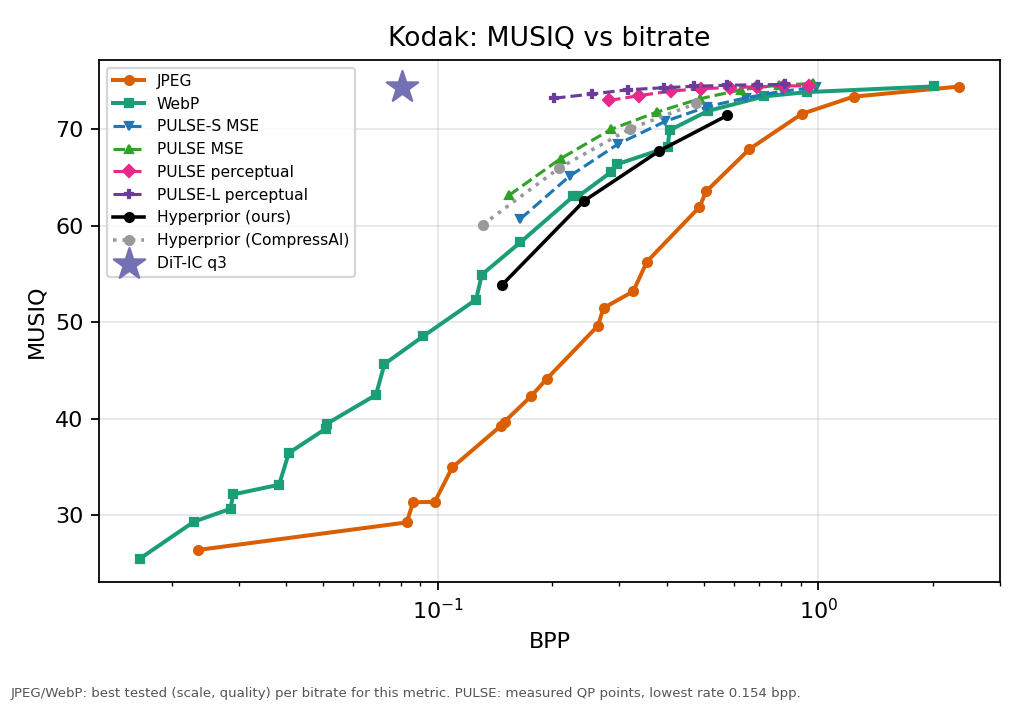
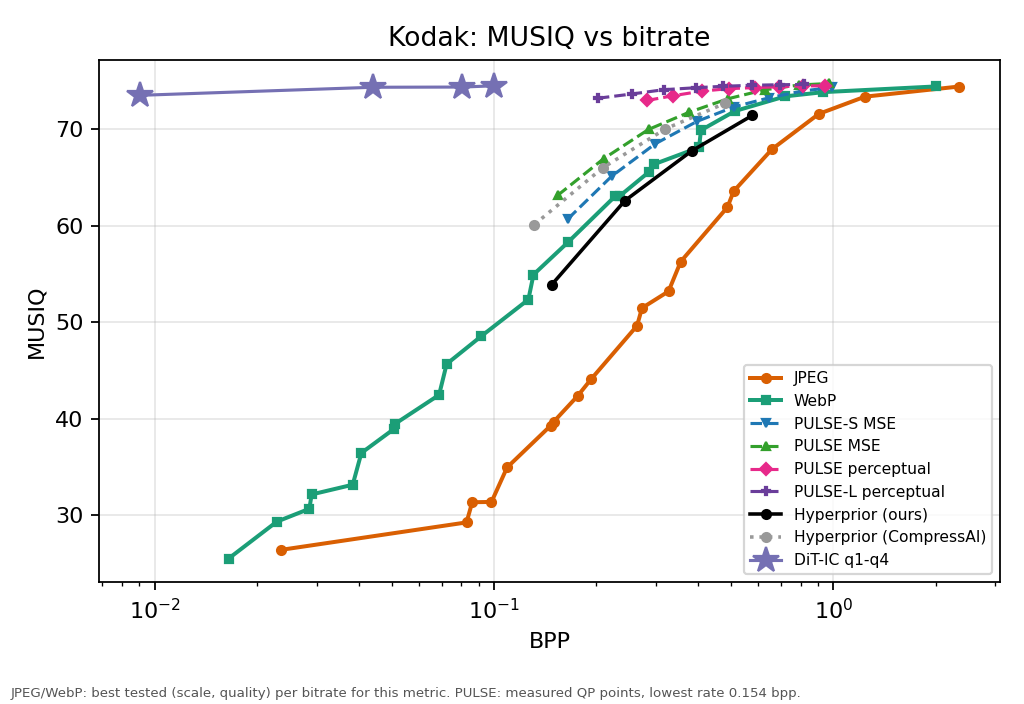
Draw all four DiT-IC levels as a curve in make_plots.py
Read every dit_ic_q*_summary.json, plot q1-q4 as one curve and match
JPEG/WebP against the highest level (q4, about 0.1 bpp).

diff --git a/src/scripts/make_plots.py b/src/scripts/make_plots.py
@@ -1,5 +1,8 @@
 """Build rate-distortion plots and a matched-BPP table for DiT-IC vs JPEG/WebP.
 
+Every DiT-IC level with a summary (src/result/metrics/dit_ic_q*_summary.json) is drawn
+as one curve; the matched-BPP table and bars use the highest level found (q4 = about 0.1 bpp).
+
 When src/result/metrics/pulse_kodak_summary.csv exists (src/scripts/run_pulse.py),
 the four PULSE models are added to the rate-distortion plots as QP curves.
 When src/result/metrics/hyperprior_kodak_summary.csv exists
@@ -82,12 +85,17 @@ def pareto_curve(rows: list[dict], metric: str, higher_is_better: bool) -> tuple
 def main() -> None:
     FIGURES_DIR.mkdir(parents=True, exist_ok=True)
 
-    with (METRICS_DIR / "dit_ic_q3_summary.json").open("r", encoding="utf-8") as f:
-        dit_summary = json.load(f)
+    # All measured DiT-IC levels, ordered by bitrate; the highest one is matched against JPEG/WebP
+    dit_levels = []
+    for path in sorted(METRICS_DIR.glob("dit_ic_q*_summary.json")):
+        with path.open("r", encoding="utf-8") as f:
+            summary = json.load(f)
+        dit_levels.append((summary["tag"], {key[4:]: summary[key] for key in summary if key.startswith("avg_")}))
+    dit_levels.sort(key=lambda level: level[1]["bpp"])
+    dit_tag, dit_metrics = dit_levels[-1]
+    dit_bpp = dit_metrics["bpp"]
+    dit_label = dit_tag.replace("dit_ic_", "DiT-IC ")
     baseline_rows = read_csv(METRICS_DIR / "baselines_kodak_summary.csv")
-
-    dit_bpp = dit_summary["avg_bpp"]
-    dit_metrics = {key[4:]: dit_summary[key] for key in dit_summary if key.startswith("avg_")}
 
     codec_rows = {
         codec: [r for r in baseline_rows if r["codec"] == codec]
@@ -140,14 +148,15 @@ def main() -> None:
                 markersize=4,
                 **HYPERPRIOR_STYLES[codec],
             )
-        ax.scatter(
-            [dit_bpp],
-            [dit_metrics[metric]],
+        ax.plot(
+            [level[1]["bpp"] for level in dit_levels],
+            [level[1][metric] for level in dit_levels],
             color="#7570b3",
             marker="*",
-            s=220,
+            markersize=12,
+            linewidth=1.4,
             zorder=5,
-            label="DiT-IC q3",
+            label="DiT-IC " + "-".join(tag.replace("dit_ic_", "") for tag, _ in (dit_levels[0], dit_levels[-1])),
         )
         ax.set_xlabel("BPP")
         ax.set_ylabel(label)
@@ -183,7 +192,7 @@ def main() -> None:
             row[metric] = float(np.interp(dit_bpp, bpp, values))
         matched_rows.append(row)
 
-    dit_row = {"codec": "dit_ic_q3", "bpp": dit_bpp, **{m: dit_metrics[m] for m in METRIC_LABELS}}
+    dit_row = {"codec": dit_tag, "bpp": dit_bpp, **{m: dit_metrics[m] for m in METRIC_LABELS}}
     matched_rows.append(dit_row)
     matched_rows.sort(key=lambda r: r["codec"])
 
@@ -196,9 +205,9 @@ def main() -> None:
     # ---- Bar chart at matched BPP ---------------------------------------
     fig, axes = plt.subplots(1, 3, figsize=(13, 4))
     bar_metrics = ["psnr", "lpips", "dists"]
-    order = ["dit_ic_q3", "jpeg", "webp"]
-    colors = {"dit_ic_q3": "#7570b3", "jpeg": "#d95f02", "webp": "#1b9e77"}
-    labels = {"dit_ic_q3": "DiT-IC q3", "jpeg": "JPEG", "webp": "WebP"}
+    order = [dit_tag, "jpeg", "webp"]
+    colors = {dit_tag: "#7570b3", "jpeg": "#d95f02", "webp": "#1b9e77"}
+    labels = {dit_tag: dit_label, "jpeg": "JPEG", "webp": "WebP"}
     rows_by_codec = {r["codec"]: r for r in matched_rows}
     for ax, metric in zip(axes, bar_metrics):
         values = [rows_by_codec[c][metric] for c in order]
@@ -212,7 +221,7 @@ def main() -> None:
     fig.savefig(FIGURES_DIR / "matched_bpp_bars.png", dpi=160)
     plt.close(fig)
 
-    print(f"DiT-IC q3: {dit_bpp:.4f} bpp")
+    print(f"{dit_label}: {dit_bpp:.4f} bpp (levels: {len(dit_levels)})")
     print(f"Saved figures to {FIGURES_DIR}")
     print(f"Saved {matched_path}")
 
